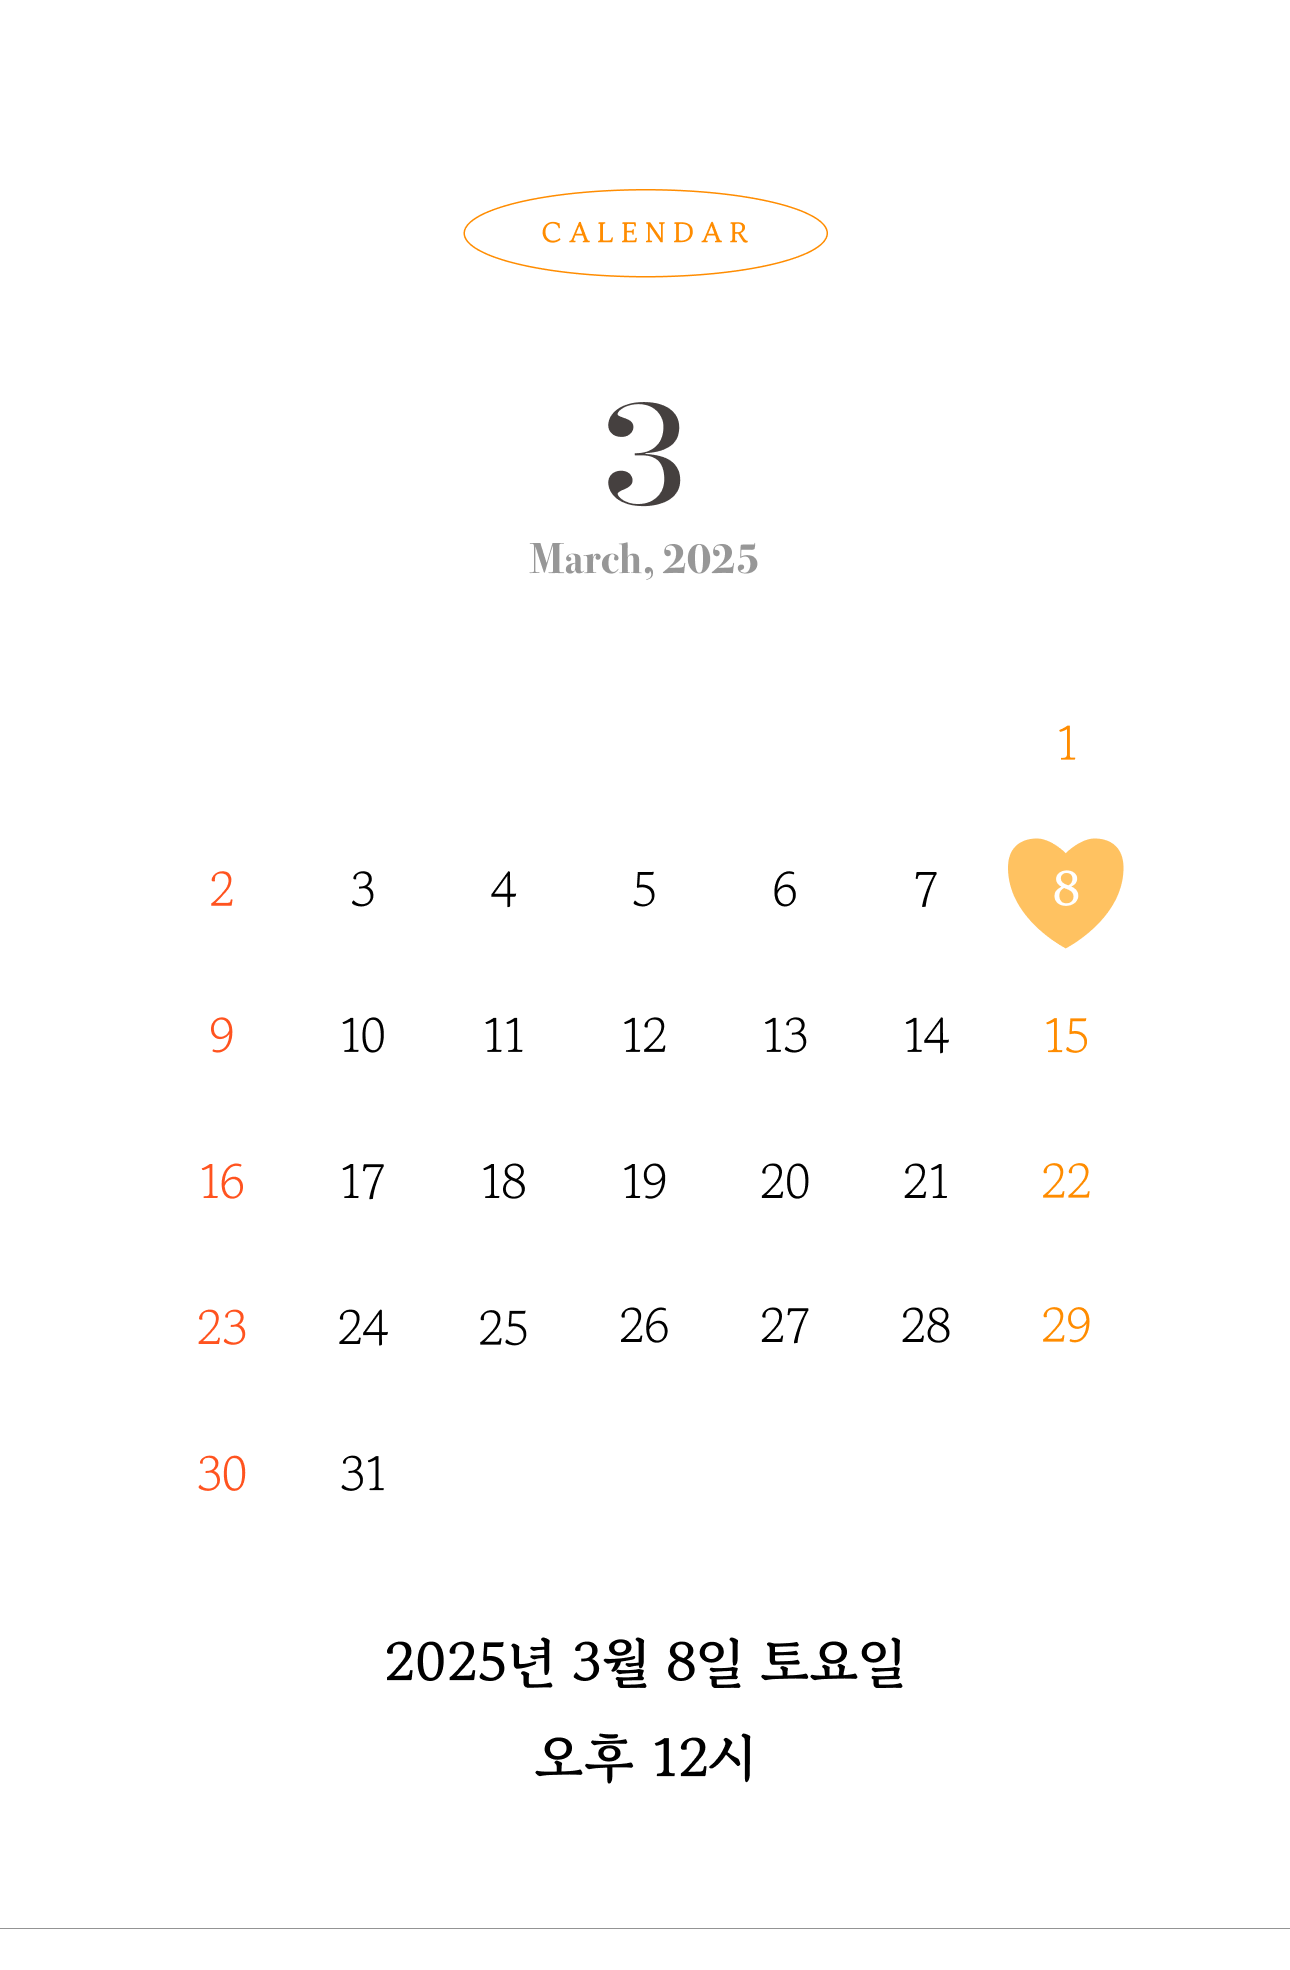
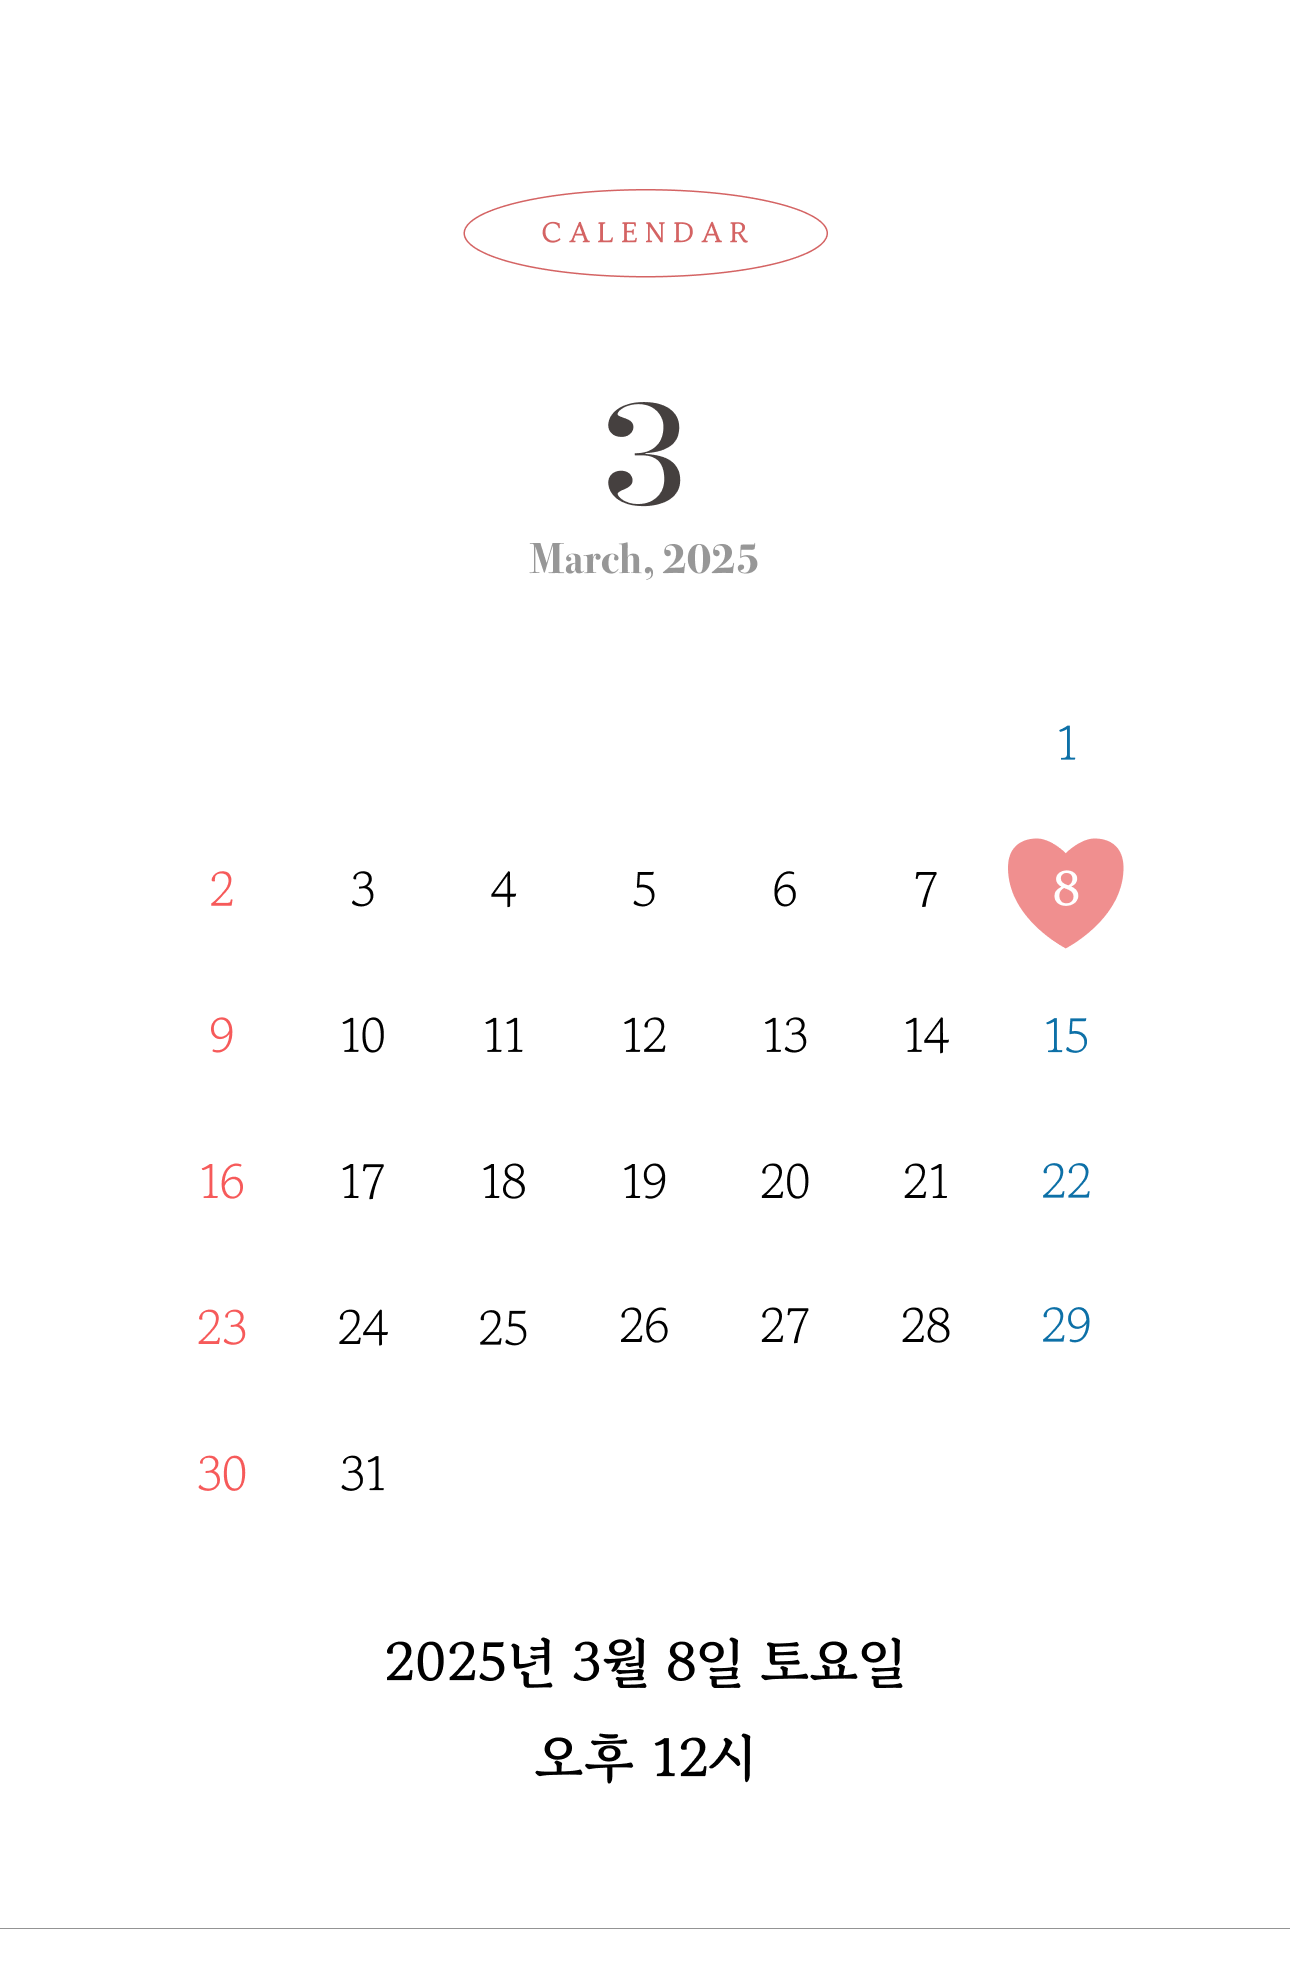
수정

diff --git a/index.html b/index.html
@@ -161,7 +161,7 @@
       <section id="gallerySection">
         <div id="galleryImages" class="gallery">
           <span style="
-            color: #FD5D00;
+            color: #D46363;
             font-size: 10px;
             min-width: 3rem;
             display: inline-block;"><b>G A L L E R Y</b></span><br>
@@ -215,7 +215,7 @@
               <th>SEC</th>
             </tr>
             <tr>
-              <td id="daysLeft" style="color: #FF8C00; font-weight: 600">
+              <td id="daysLeft" style="color: #D46363; font-weight: 600">
                 119
               </td>
               <td>:</td>
@@ -239,7 +239,7 @@
         <div class="animate-on-scroll">
 
           <span style="
-            color: #FF8C00;
+            color: #D46363;
             font-size: 9px;
             min-width: 3rem;
             display: inline-block;"><b>L O C A T I O N</b></span>
@@ -327,7 +327,7 @@
       </div>
 
       <!-- map 길찾기 -->
-      <div class="animate-on-scroll" id="MapIconDiv" style="background-color: #FF8C00;">
+      <div class="animate-on-scroll" id="MapIconDiv" style="background-color: #D46363;">
         <div>
           <a class="maplink" href="https://kko.kakao.com/lL8JSxY9xF">
             <div>

diff --git a/style.css b/style.css
@@ -120,7 +120,7 @@ body {
 }
 
 #gallerySection {
-  background-color: #FFF3CA;
+  background-color: #FDF4F4;
   padding-top: 20%;
 }
 
@@ -128,7 +128,7 @@ body {
   display: grid;
   grid-template-columns: repeat(2, minmax(0, 1fr));
   grid-gap: 5px;
-  background-color: #FFF3CA;
+  background-color: #FDF4F4;
   /* (A2) OPTIONAL WIDTH RESTRICT */
   max-width: 1000px;
   margin: 0 auto;
@@ -227,7 +227,7 @@ body {
 }
 
 .countdownTimeInfo {
-  color: #FF8C00;
+  color: #D46363;
   font-weight: 600;
 }
 
@@ -269,7 +269,7 @@ body {
 
 #locationSection {
   margin-top: 3%;
-  background-color: #FFF3CA;
+  background-color: #FDF4F4;
   height: 265px;
 }
 
@@ -334,7 +334,7 @@ main {
 }
 
 .accordion {
-  background-color: #FFF3CA;
+  background-color: #FDF4F4;
   color: black;
   cursor: pointer;
   padding: 0.8rem;
@@ -426,7 +426,7 @@ main {
 }
 
 #kakaoMapButton {
-  background-color: #FF8C00;
+  background-color: #D46363;
   padding: 10px;
   text-align: center;
   width: auto;
